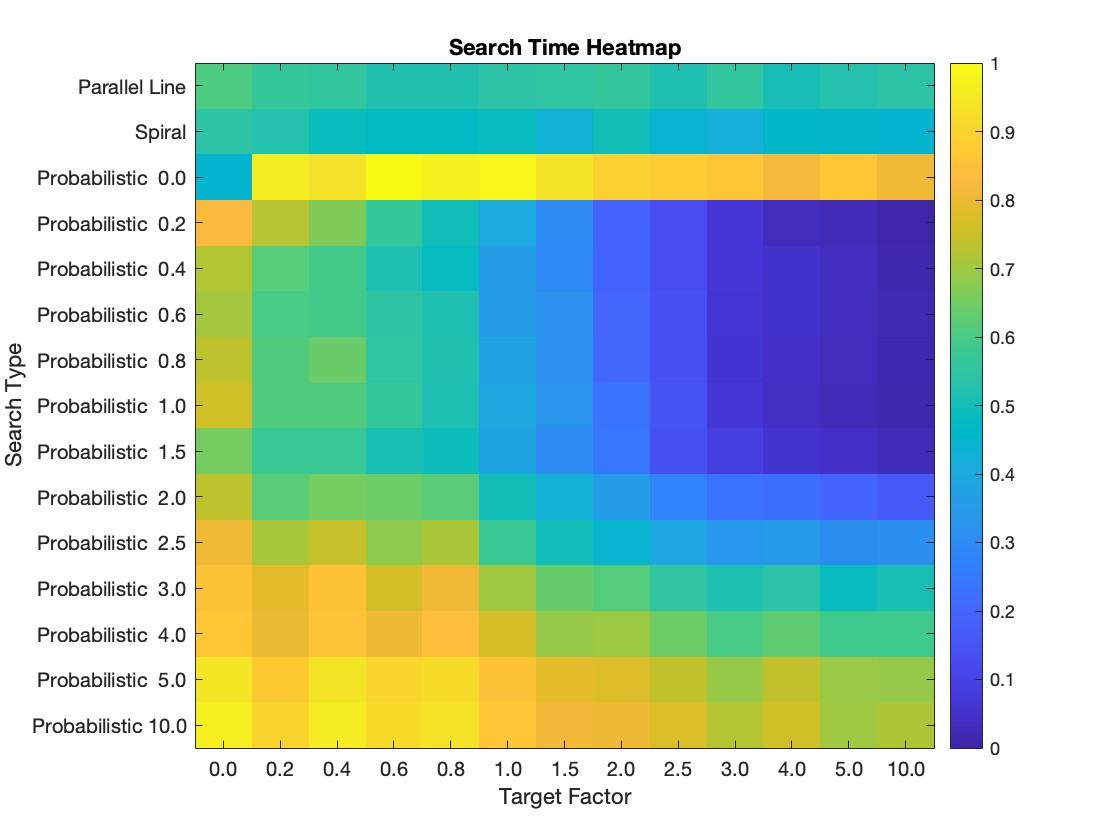
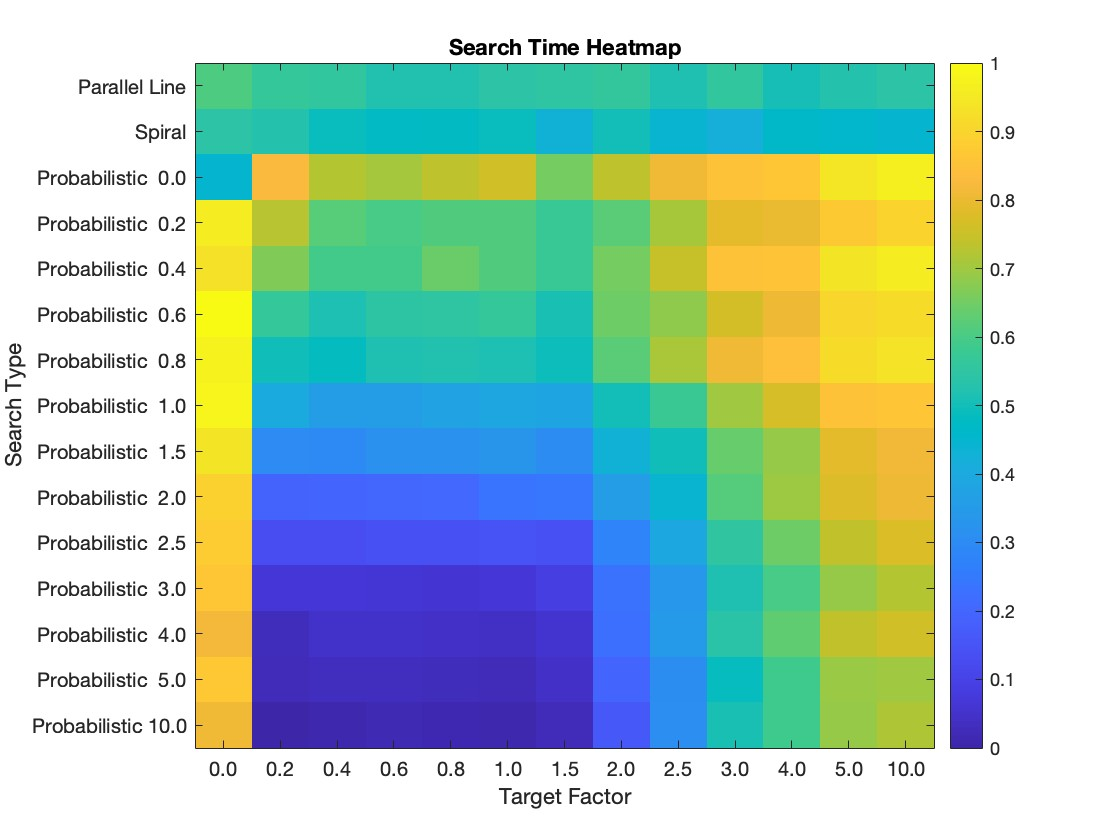
More docstrings

diff --git a/simulation/data.m b/simulation/data.m
@@ -37,19 +37,19 @@ columns = {
 values = {
     [211.77, 200.60, 198.32, 188.60, 188.81, 193.91, 196.23, 198.96, 187.99, 197.68, 184.25, 189.55, 193.83];
     [193.72, 190.12, 180.52, 176.26, 176.93, 180.42, 164.57, 183.30, 167.78, 162.05, 174.19, 170.82, 168.56];
-    [168.56, 305.53, 298.24, 315.97, 308.98, 311.74, 299.54, 287.50, 283.49, 279.66, 267.34, 281.01, 265.68];
-    [270.15, 243.59, 227.05, 200.25, 182.37, 156.41, 129.27, 101.43,  84.46,  68.68,  58.34, 57.138, 50.042];
-    [243.10, 215.11, 207.84, 186.61, 178.56, 144.88, 128.61, 102.13,  84.64,  68.13,  63.15, 58.613, 52.374];
-    [237.11, 209.96, 207.63, 195.36, 187.53, 144.69, 134.92, 103.92,  86.82,  67.12,  63.41,  58.67,  55.04];
-    [246.37, 212.38, 220.45, 196.37, 188.83, 149.12, 134.73, 104.86,  87.77,  66.55,  62.35, 57.848, 53.352];
-    [252.47, 212.13, 212.70, 200.01, 186.73, 153.20, 137.40, 112.70,  89.13,  68.72,  60.65, 56.325, 52.493];
-    [223.74, 202.28, 202.56, 185.24, 181.58, 151.09, 130.74, 115.01,  86.72,  73.60,  64.87, 61.853, 56.714];
-    [246.32, 215.73, 224.55, 221.69, 216.18, 183.28, 165.00, 145.00, 124.41, 112.11, 109.88, 102.53, 93.091];
-    [266.10, 238.69, 248.72, 231.35, 239.89, 203.29, 182.87, 168.21, 154.39, 140.35, 141.75, 131.46, 132.17];
-    [277.44, 260.05, 276.52, 253.56, 265.19, 237.00, 220.11, 213.41, 197.20, 188.04, 192.46, 179.73, 185.19];
-    [280.61, 262.52, 278.31, 264.38, 274.45, 254.51, 233.84, 235.36, 221.68, 209.06, 217.40, 206.70, 206.40];
-    [300.87, 282.49, 299.67, 290.13, 294.67, 277.27, 259.83, 257.18, 247.40, 233.07, 246.56, 234.40, 233.21];
-    [306.86, 289.32, 306.34, 294.82, 299.17, 278.61, 266.42, 264.63, 256.56, 242.98, 252.17, 237.00, 240.86]
+    [168.56, 270.15, 243.1 , 237.11, 246.37, 252.47, 223.74, 246.32, 266.1 , 277.44, 280.61, 300.87, 306.86],
+    [305.53, 243.59, 215.11, 209.96, 212.38, 212.13, 202.28, 215.73, 238.69, 260.05, 262.52, 282.49, 289.32],
+    [298.24, 227.05, 207.84, 207.63, 220.45, 212.70, 202.56, 224.55, 248.72, 276.52, 278.31, 299.67, 306.34],
+    [315.97, 200.25, 186.61, 195.36, 196.37, 200.01, 185.24, 221.69, 231.35, 253.56, 264.38, 290.13, 294.82],
+    [308.98, 182.37, 178.56, 187.53, 188.83, 186.73, 181.58, 216.18, 239.89, 265.19, 274.45, 294.67, 299.17],
+    [311.74, 156.41, 144.88, 144.69, 149.12, 153.20, 151.09, 183.28, 203.29, 237.00, 254.51, 277.27, 278.61],
+    [299.54, 129.27, 128.61, 134.92, 134.73, 137.40, 130.74, 165.00, 182.87, 220.11, 233.84, 259.83, 266.42],
+    [287.5 , 101.43, 102.13, 103.92, 104.86, 112.70, 115.01, 145.00, 168.21, 213.41, 235.36, 257.18, 264.63],
+    [283.49,  84.46,  84.64,  86.82,  87.77,  89.13,  86.72, 124.41, 154.39, 197.20, 221.68, 247.40, 256.56],
+    [279.66,  68.68,  68.13,  67.12,  66.55,  68.72,  73.60, 112.11, 140.35, 188.04, 209.06, 233.07, 242.98],
+    [267.34,  58.34,  63.15,  63.41,  62.35,  60.65,  64.87, 109.88, 141.75, 192.46, 217.40, 246.56, 252.17],
+    [281.01,  57.14, 58.613,  58.67,  57.85,  56.33,  61.85, 102.53, 131.46, 179.73, 206.70, 234.40, 237.00],
+    [265.68,  50.04, 52.374,  55.04,  53.35,  52.49,  56.71,  93.09, 132.17, 185.19, 206.40, 233.21, 240.86]
 };
 
 d = containers.Map(rows, values);

diff --git a/simulation/getScene.m b/simulation/getScene.m
@@ -1,4 +1,17 @@
 function [featureVertices, probabilityGrid] = getScene(terrainNum, gridSize, createFigure, forTarget, targetRoi)
+% Constructs  scene by defining feature vertices and calculating probability grids based on terrain features.
+%
+% Inputs:
+% - terrainNum (scalar): Index specifying the terrain type.
+% - gridSize (2-element vector): Size of the grid [rows, cols].
+% - createFigure (boolean): Indicates whether to create visualizations.
+% - forTarget (boolean): Adjusts probability calculations if the scene is for target placement.
+% - targetRoi (4-element vector, optional): Specifies the region of interest for the target [startRow, endRow, startCol, endCol].
+%
+% Outputs:
+% - featureVertices (struct): Contains vertices for each terrain feature.
+% - probabilityGrid (matrix): Grid of probabilities for each cell, representing the likelihood of finding the target.
+
     terrainTypes = {'Type1', 'Type2', 'Type3', 'Type4', 'Type5', 'Type6', 'Type7', 'Type8', 'Type9', 'Type10'};
     colors = struct('Trail', [0.4 0.2 0], 'Water', [0.2 0.6 1], 'Forest', [0 0.3333 0], 'Elevation', [0.4667 0.4667 0.4667], 'Field', [0.4667 0.6745 0.1882], 'Target', [1 0 0]);
     probabilities = struct('Trail', [-1, 7.0; 0, 7.0; 50, 2.6; 100, 1.7; 150, 1.4; 200, 1.3], 'Water', [-1, 0.5; 0, 5.2; 50, 4.5; 100, 3.8; 150, 3.1; 200, 2.6], 'Forest', [-1, 0.7], 'Elevation', [-1, 1.8]);
@@ -55,6 +68,15 @@ function [featureVertices, probabilityGrid] = getScene(terrainNum, gridSize, cre
 end
 
 function featureVertices = getFeatureVertices(terrainType, gridSize)
+% Generates feature vertices for a specified terrain type within a given grid size.
+%
+% Inputs:
+% - terrainType (string): Specifies the type of terrain to generate features for.
+% - gridSize (2-element vector): Size of the grid [rows, cols] for scaling the features.
+%
+% Output:
+% - featureVertices (struct): Contains vertices for each terrain feature, scaled according to the grid size.
+
     featureVertices = struct();
 
     scaleFactorX = gridSize(2) / 100;
@@ -171,6 +193,17 @@ function featureVertices = getFeatureVertices(terrainType, gridSize)
 end
 
 function probabilityGrid = terrainProbabilities(featureVertices, gridSize, probabilities, forTarget)
+% Calculates a probability grid based on terrain features and their respective probabilities.
+%
+% Inputs:
+% - featureVertices (struct): Contains vertices for each terrain feature.
+% - gridSize (2-element vector): Size of the grid [rows, cols].
+% - probabilities (struct): Probability values associated with each terrain feature.
+% - forTarget (boolean): Indicates if the probability adjustments for targeting are applied.
+%
+% Output:
+% - probabilityGrid (matrix): Grid of probabilities for each cell, indicating the likelihood of each terrain feature.
+
     probabilityGrid = ones(gridSize);
     for featureType = fieldnames(featureVertices)'
         if strcmp(featureType{1}, 'Forest') && forTarget == true % UAV lidar sensor has reduced vision in forest, target does not consider this

diff --git a/simulation/simulation.m b/simulation/simulation.m
@@ -4,11 +4,11 @@ close all;
 uavElevation = 12;
 gridSize = [100, 100];
 colors = struct('Trail', [0.4 0.2 0], 'Water', [0.2 0.6 1], 'Forest', [0 0.3333 0], 'Elevation', [0.4667 0.4667 0.4667]);
-probabilities = struct('Trail', [-1, 7.0; 0, 7.0; 50, 2.7; 100, 1.9; 150, 1.5; 200, 1.3], 'Water', [-1, 0.5; 0, 5.5; 50, 3.5; 100, 3.0; 150, 2.4; 200, 2.1], 'Forest', [-1, 1.5], 'Elevation', [-1, 2.0]);
+probabilities = struct('Trail', [-1, 7.0; 0, 7.0; 50, 2.7; 100, 1.9; 150, 1.5; 200, 1.3], 'Water', [-1, 0.5; 0, 5.5; 50, 3.5; 100, 3.0; 150, 2.4; 200, 2.1], 'Forest', [-1, 0.7], 'Elevation', [-1, 1.8]);
 numTerrains = 10; % 10;
-numIterations = 500; % 500;
-featureMapFigure = true;
-successDistanceFigure = true;
+numIterations = 1; % 500;
+featureMapFigure = false;
+successDistanceFigure = false;
 targetFactors = [0, 0.2, 0.4, 0.6, 0.8, 1, 1.5, 2.0, 2.5, 3, 4, 5, 10];
 
 % --------------------------- TARGET POSITIONS ----------------------------
@@ -104,6 +104,8 @@ for f = 1:length(targetFactors)
             probabilisticData.targetFactor(f).bestPerformance = avgWaypoints;
             probabilisticData.targetFactor(f).bestWeight = distanceFactors(w);
         end
+
+        avgWaypointsProbabilistic(f, w) = avgWaypoints;
 
         probabilisticData.targetFactor(f).distanceFactor(w).distanceFactor = distanceFactors(w); % store data for each epoch in the structure
         probabilisticData.targetFactor(f).distanceFactor(w).avgWaypoints = avgWaypoints;

diff --git a/simulation/getTarget.m b/simulation/getTarget.m
@@ -1,4 +1,15 @@
 function roi = getTarget(probabilityGrid, targetFactor)
+% Determines a target region of interest (ROI) within a probability grid by selecting a cell based on weighted probabilities.
+%
+% Inputs:
+% - probabilityGrid (matrix): Grid of probabilities representing the likelihood of each cell being the target location.
+% - targetFactor (scalar): Exponent used to adjust the weighting of probabilities in the grid.
+%
+% Output:
+% - roi (vector): Defines the region of interest for the target as [startRow, endRow, startCol, endCol, minHeight, maxHeight].
+%                 The target region is selected based on the adjusted probabilities, ensuring a random but biased selection towards higher probabilities.
+%
+
     probabilityGrid = probabilityGrid.^targetFactor; % increase weighting of probability
     probabilities = probabilityGrid / sum(probabilityGrid, 'all'); % normalize to sum to 1
     cumulativeProbabilities = cumsum(probabilities(:)); % converto to cumulative sum array
